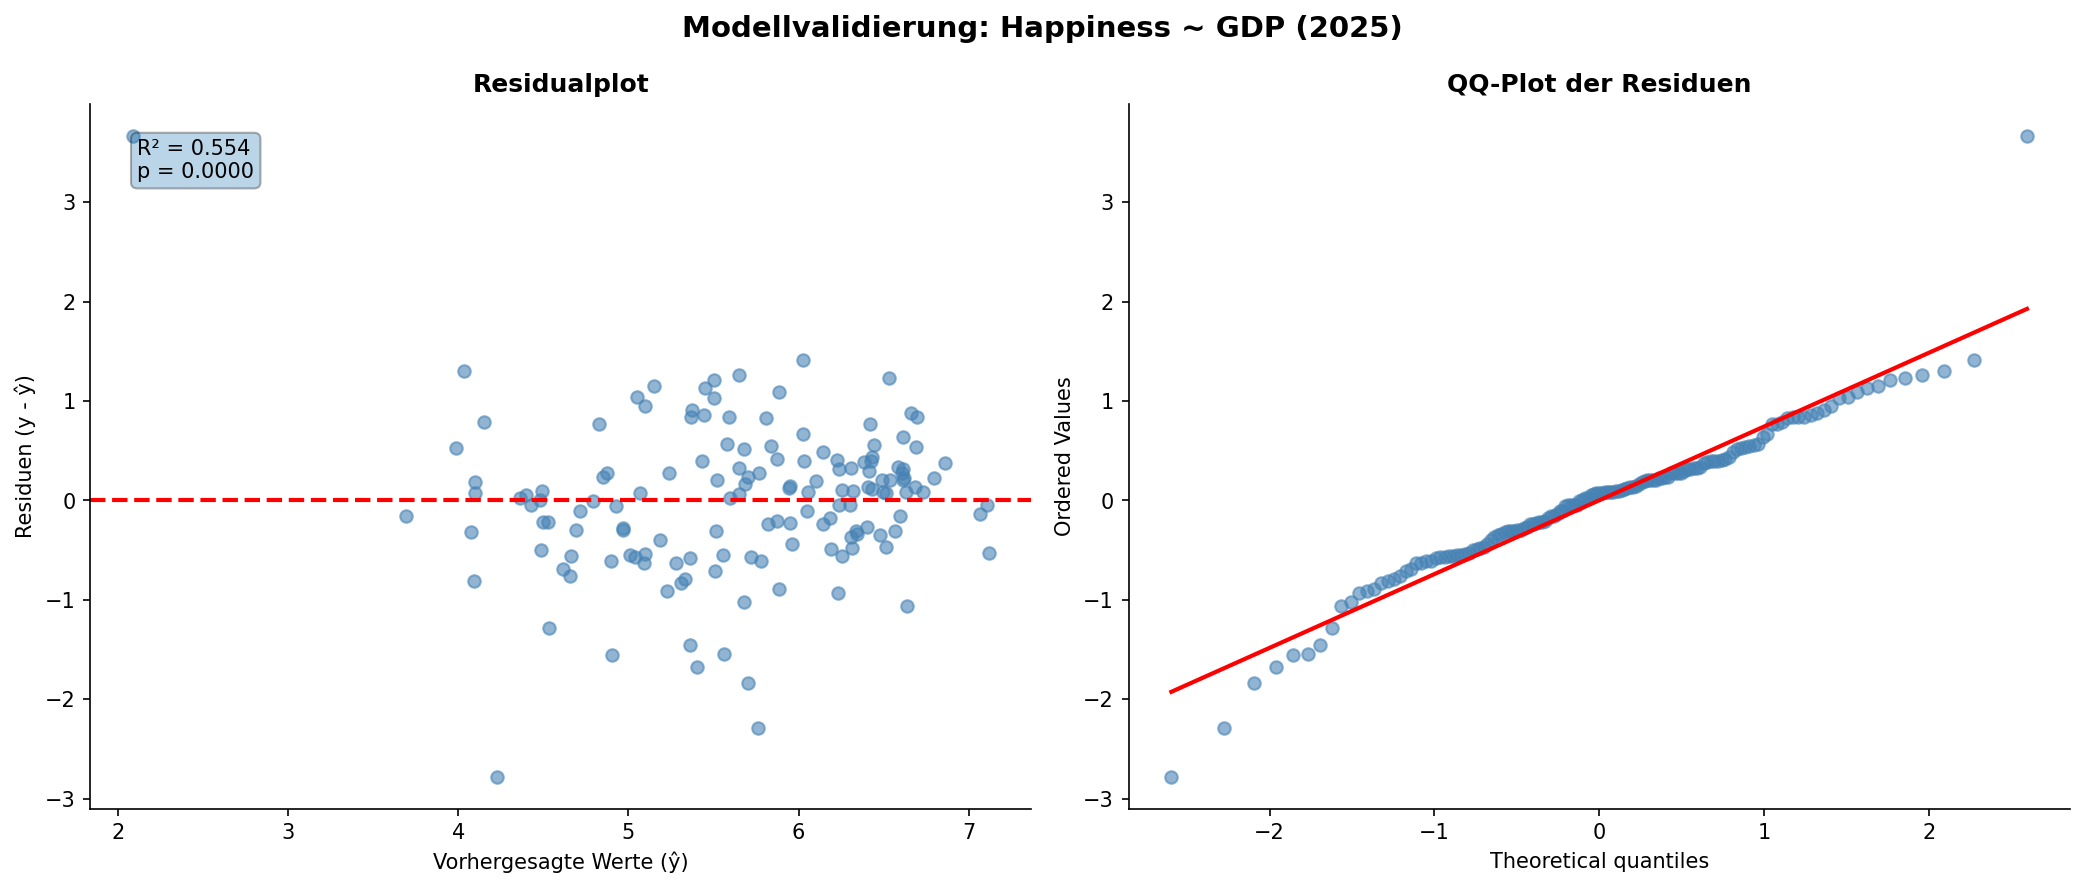
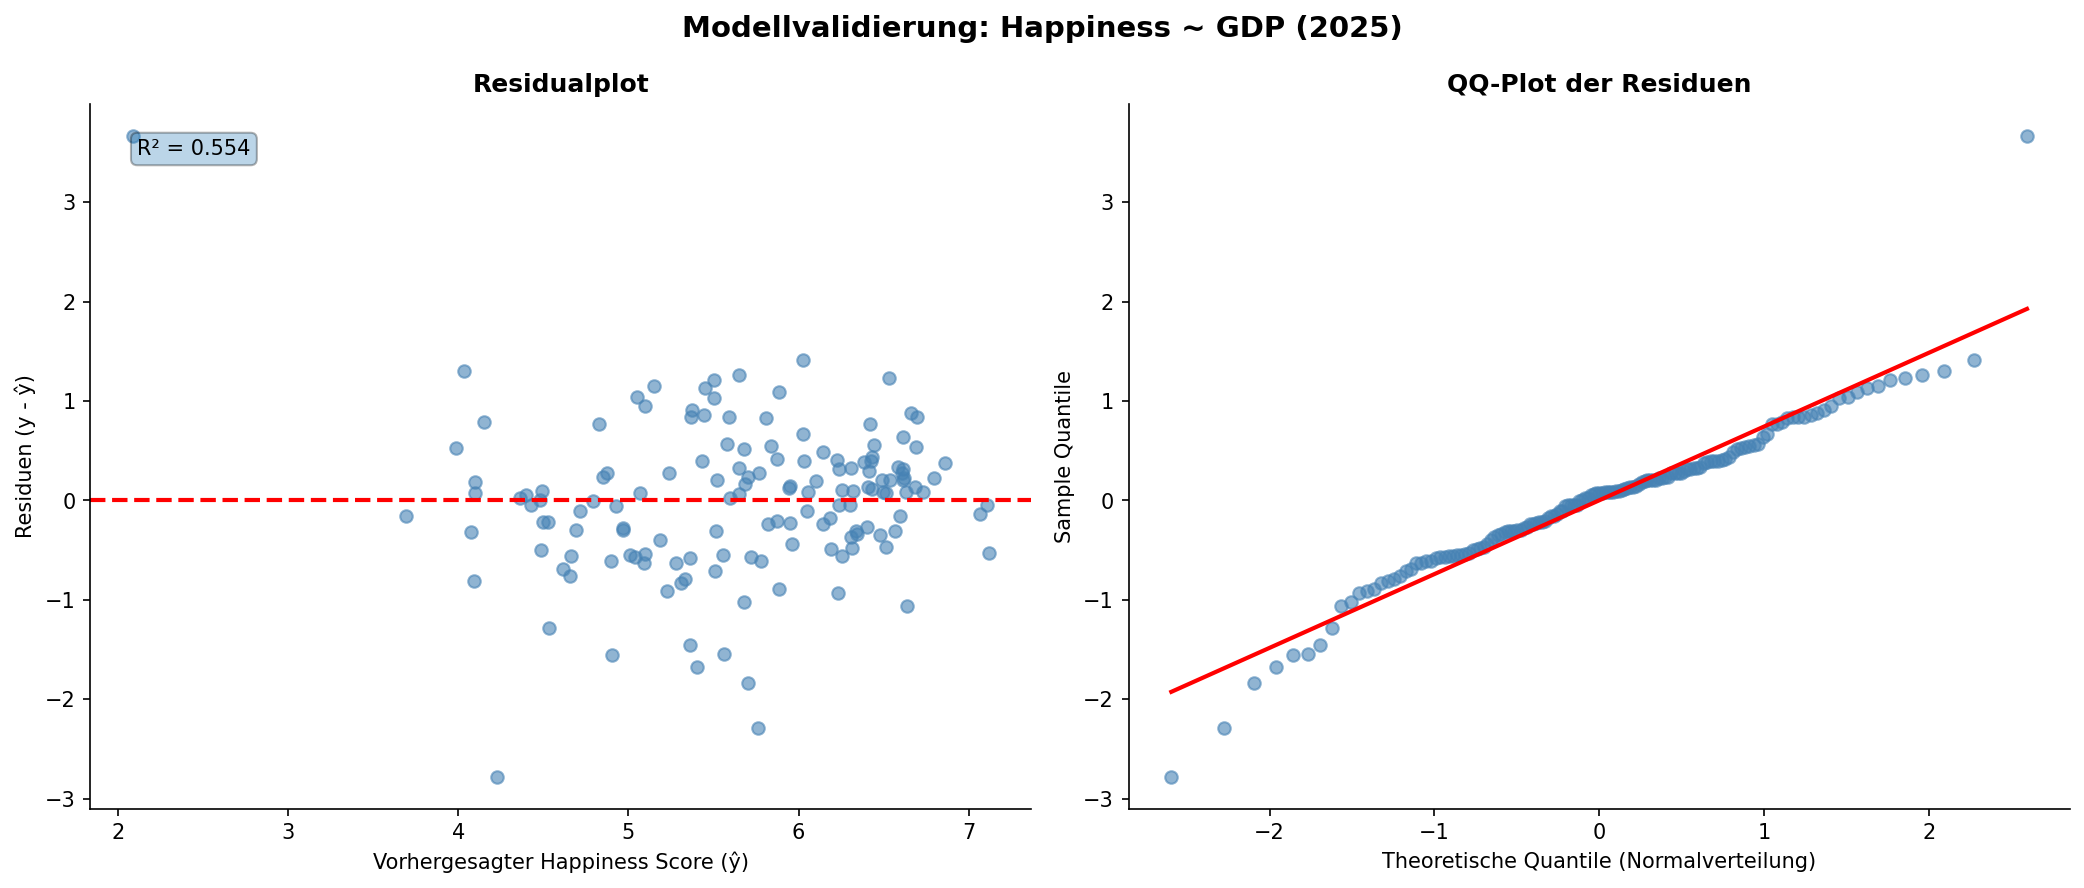
adjusted plot 3

diff --git a/Test_Happy/data.py b/Test_Happy/data.py
@@ -251,9 +251,9 @@ ax = axes[0]
 ax.scatter(y_pred, residuen, alpha=0.6, color='steelblue')
 ax.axhline(0, color='red', linestyle='--', linewidth=2)
 ax.set_title('Residualplot', fontweight='bold')
-ax.set_xlabel('Vorhergesagte Werte (ŷ)')
+ax.set_xlabel('Vorhergesagter Happiness Score (ŷ)')
 ax.set_ylabel('Residuen (y - ŷ)')
-ax.text(0.05, 0.95, f'R² = {r_value**2:.3f}\np = {p_value:.4f}',
+ax.text(0.05, 0.95, f'R² = {r_value**2:.3f}',
         transform=ax.transAxes, verticalalignment='top',
         bbox=dict(boxstyle='round', alpha=0.3))
 ax.spines['top'].set_visible(False)
@@ -263,6 +263,8 @@ ax.spines['right'].set_visible(False)
 ax = axes[1]
 probplot(residuen, dist="norm", plot=ax)
 ax.set_title('QQ-Plot der Residuen', fontweight='bold')
+ax.set_xlabel('Theoretische Quantile (Normalverteilung)')
+ax.set_ylabel('Sample Quantile')
 ax.get_lines()[0].set(color='steelblue', alpha=0.6)
 ax.get_lines()[1].set(color='red', linewidth=2)
 ax.spines['top'].set_visible(False)